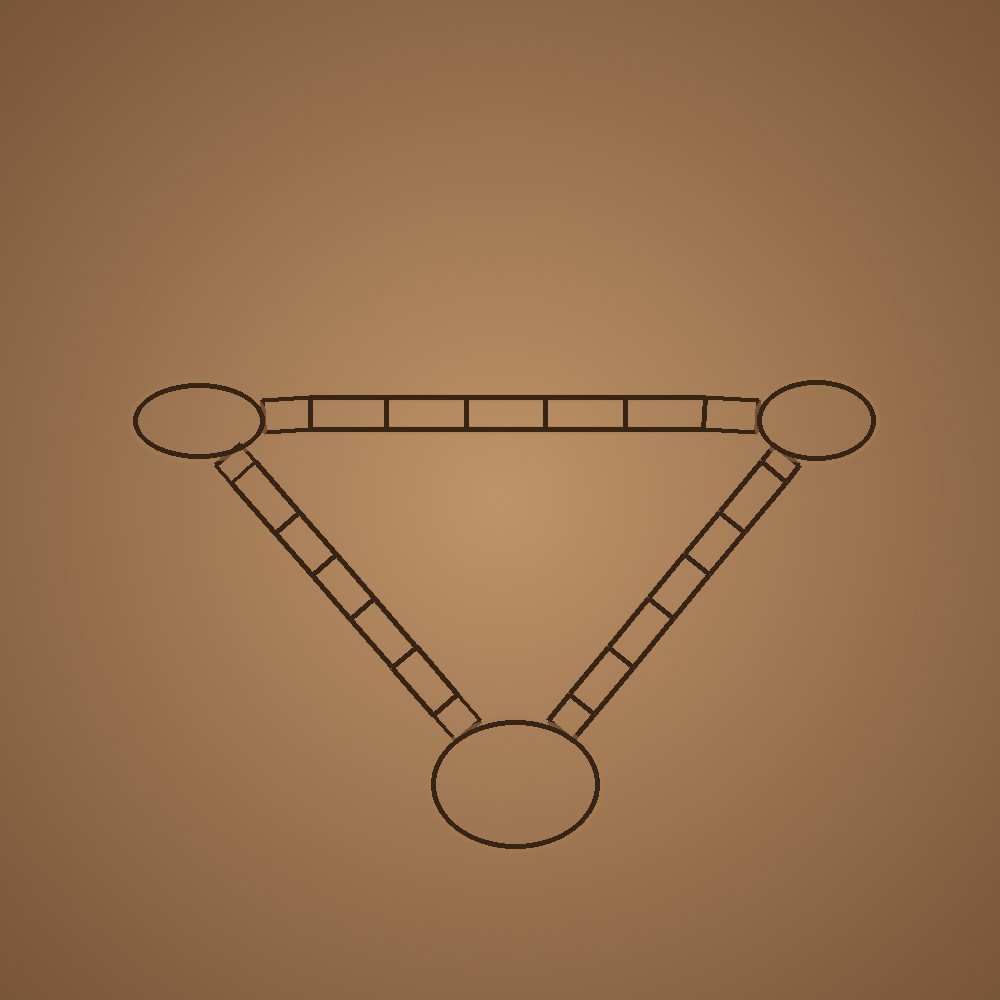
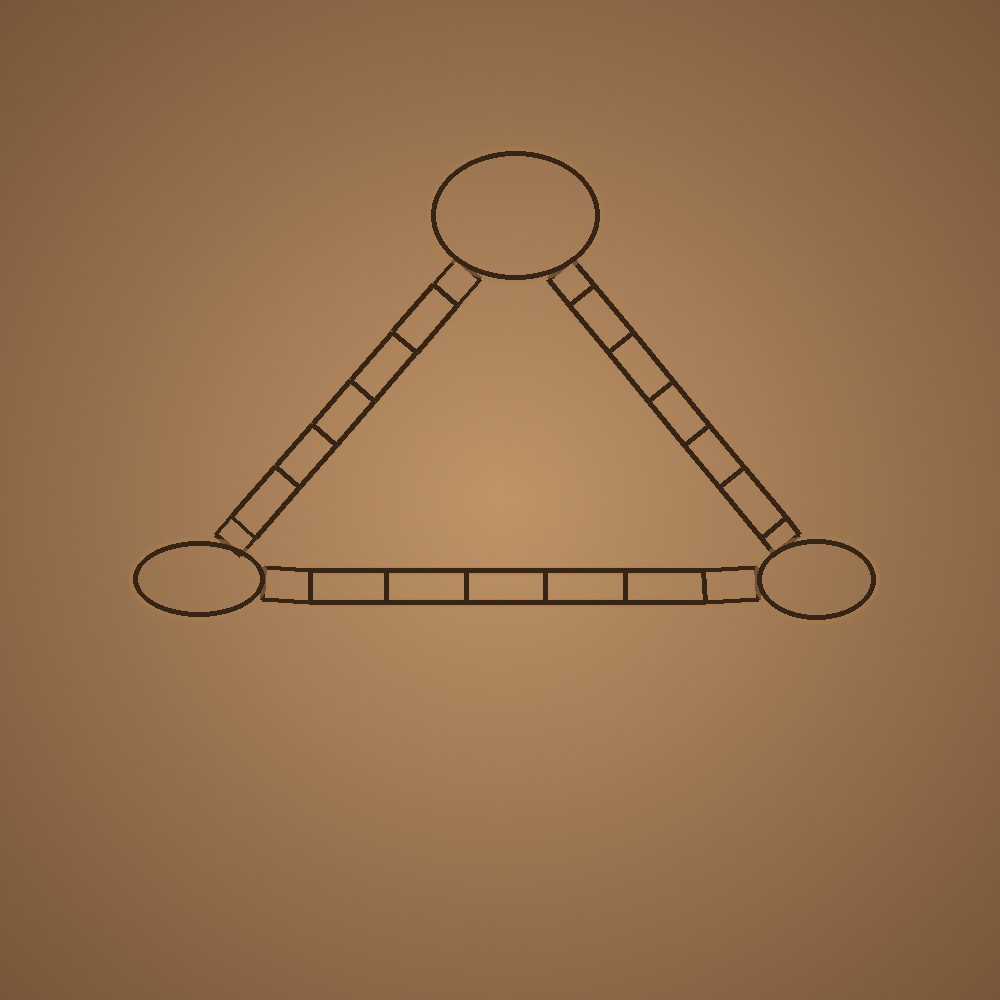
Xoay tam giác bàn cờ đỉnh hướng lên trên, giống bản oanquan.online
Vẽ lại nền tam giác (lật dọc toạ độ cũ, giữ đúng tỉ lệ 6 ô dân/cạnh +
3 ô quan góc) và cập nhật BOARD_SLOTS_N3 tương ứng — đỉnh bàn giờ
hướng lên trên thay vì xuống dưới, khớp với hướng bố cục bản 1v1v1
tham khảo. Vị trí sỏi/quan/nhân vật vẫn khớp chính xác vì dùng chung
1 bộ toạ độ được lật đồng bộ giữa ảnh nền và code.

diff --git a/index.html b/index.html
@@ -773,11 +773,11 @@ function rotAngle(idx, total, mySeat, n){
 /* Toạ độ % (đo tay từ assets/bg-board.jpg) của các ô đã vẽ sẵn trên nền —
    chỉ áp dụng khi n=3 (bàn 3 góc chuẩn); n khác dùng công thức vòng tròn cũ. */
 const BOARD_SLOTS_N3 = {
-  quan: [ {x:81.62,y:42.07}, {x:51.55,y:78.46}, {x:19.88,y:42.12} ], // góc bắt đầu của cạnh 0,1,2
+  quan: [ {x:81.62,y:57.93}, {x:51.55,y:21.54}, {x:19.88,y:57.88} ], // góc bắt đầu của cạnh 0,1,2 — đỉnh tam giác hướng lên
   dan: [
-    [{x:77.38,y:47.21},{x:73.20,y:52.26},{x:69.71,y:56.48},{x:66.11,y:60.84},{x:62.08,y:65.72},{x:58.17,y:70.45}],
-    [{x:44.59,y:70.46},{x:40.47,y:65.75},{x:36.23,y:60.87},{x:32.42,y:56.51},{x:28.75,y:52.29},{x:24.35,y:47.25}],
-    [{x:31.08,y:41.32},{x:38.69,y:41.32},{x:46.62,y:41.32},{x:54.56,y:41.32},{x:62.54,y:41.32},{x:70.42,y:41.32}],
+    [{x:77.38,y:52.79},{x:73.20,y:47.74},{x:69.71,y:43.52},{x:66.11,y:39.16},{x:62.08,y:34.28},{x:58.17,y:29.55}],
+    [{x:44.59,y:29.54},{x:40.47,y:34.25},{x:36.23,y:39.13},{x:32.42,y:43.49},{x:28.75,y:47.71},{x:24.35,y:52.75}],
+    [{x:31.08,y:58.68},{x:38.69,y:58.68},{x:46.62,y:58.68},{x:54.56,y:58.68},{x:62.54,y:58.68},{x:70.42,y:58.68}],
   ]
 };
 function cellPercentPos(idx, total, mySeat, n){
